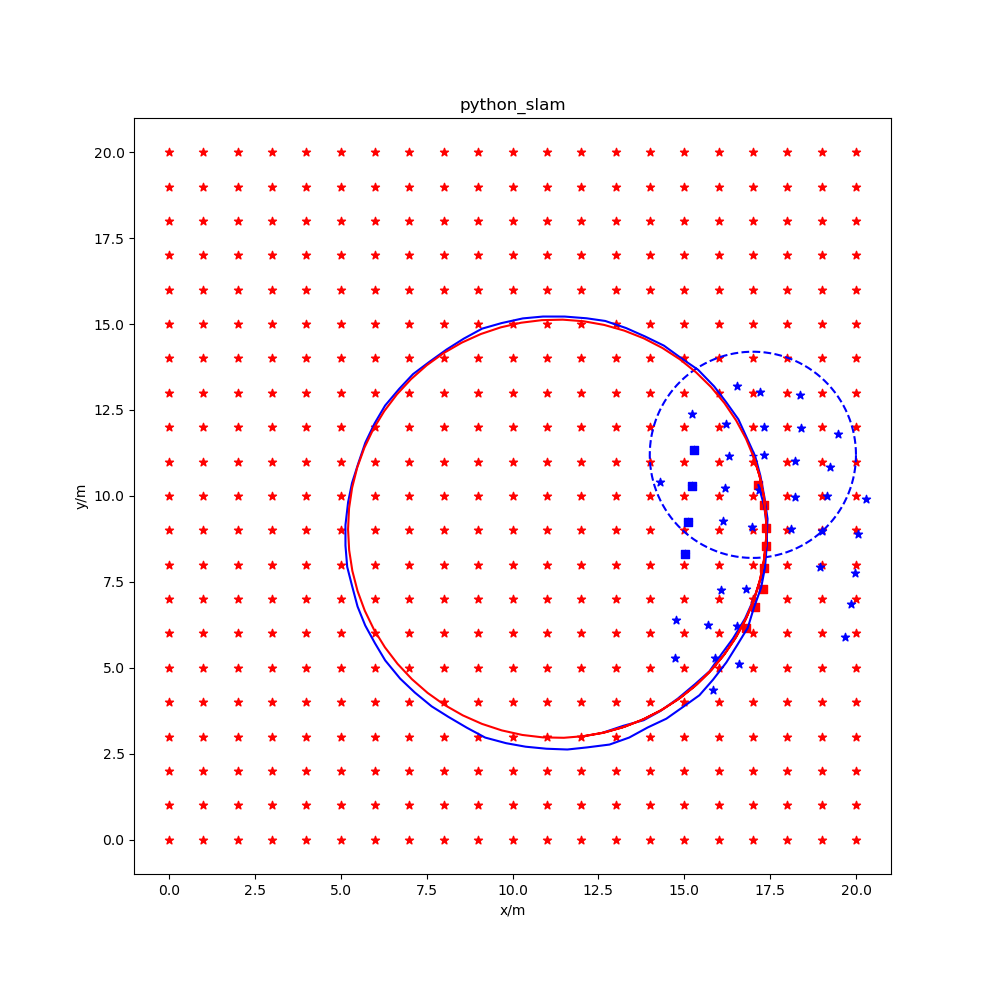
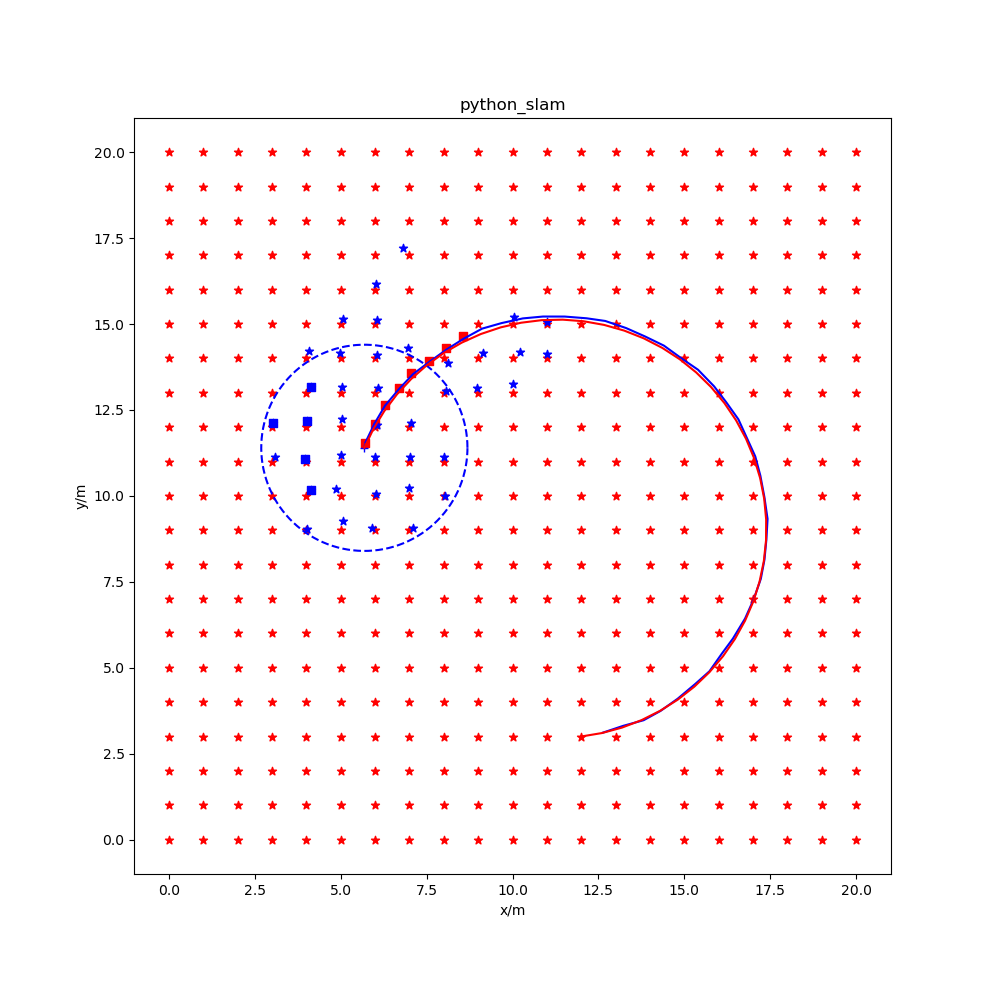
更新图片

diff --git a/slidewindow_graph.py b/slidewindow_graph.py
@@ -357,7 +357,7 @@ class Slidewindow_graph:
         
         # t1 = time.clock()
         if len(self._frames_DB) > self._max_window:
-            # self.Get_prior()
+            self.Get_prior()
             self.Cut_window()
         # t2 = time.clock()
         # print(t2-t1)
